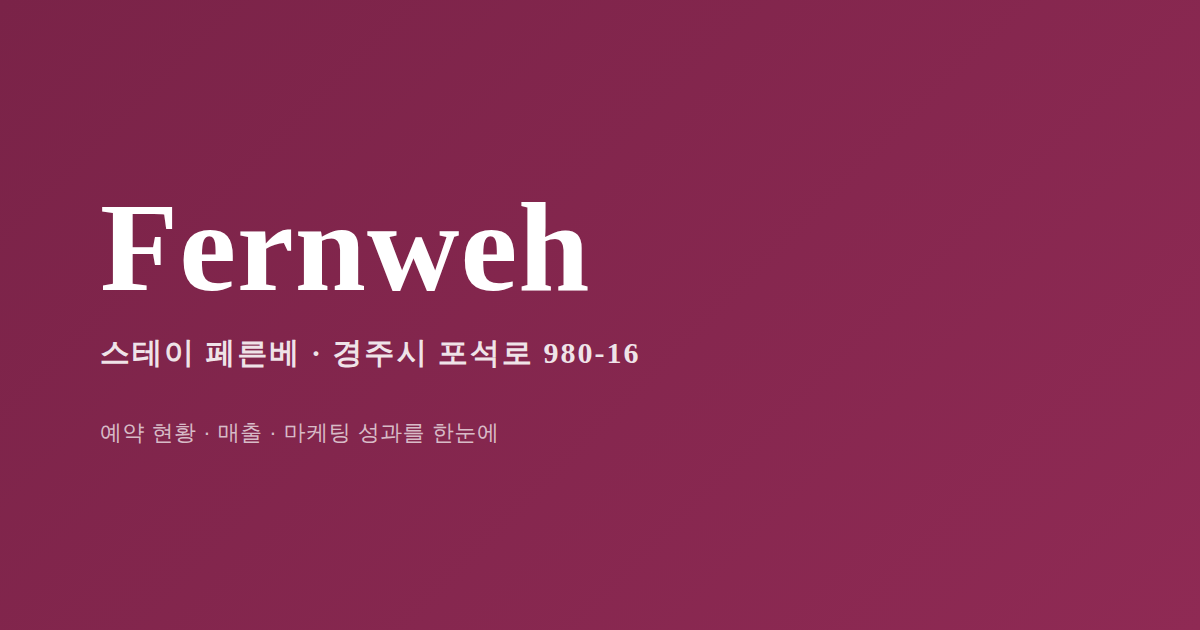
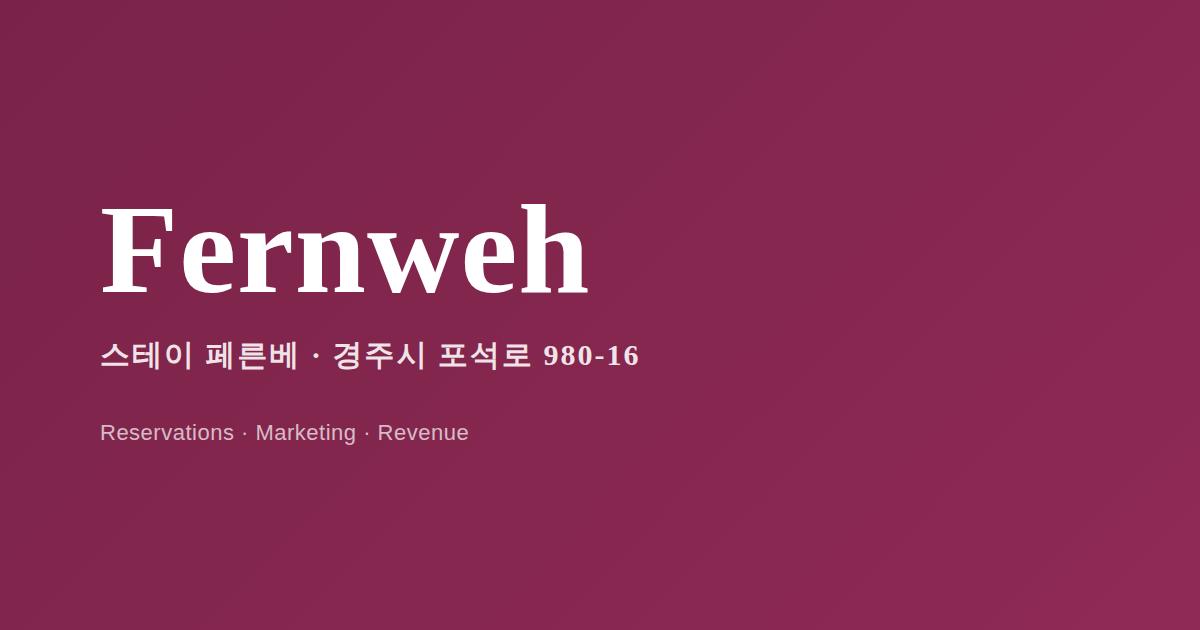
Add files via upload

diff --git a/index.html b/index.html
@@ -9,7 +9,7 @@
 <meta property="og:url" content="https://aprilyouleehan.github.io/fernweh-board/"/>
 <meta property="og:site_name" content="Fernweh"/>
 <meta property="og:title" content="Fernweh 예약보드"/>
-<meta property="og:description" content="예약 현황 · 매출 · 마케팅 성과를 한눈에"/>
+<meta property="og:description" content="Reservations · Marketing · Revenue"/>
 <meta property="og:image" content="https://aprilyouleehan.github.io/fernweh-board/og-image.png"/>
 <meta property="og:image:width" content="1200"/>
 <meta property="og:image:height" content="630"/>
